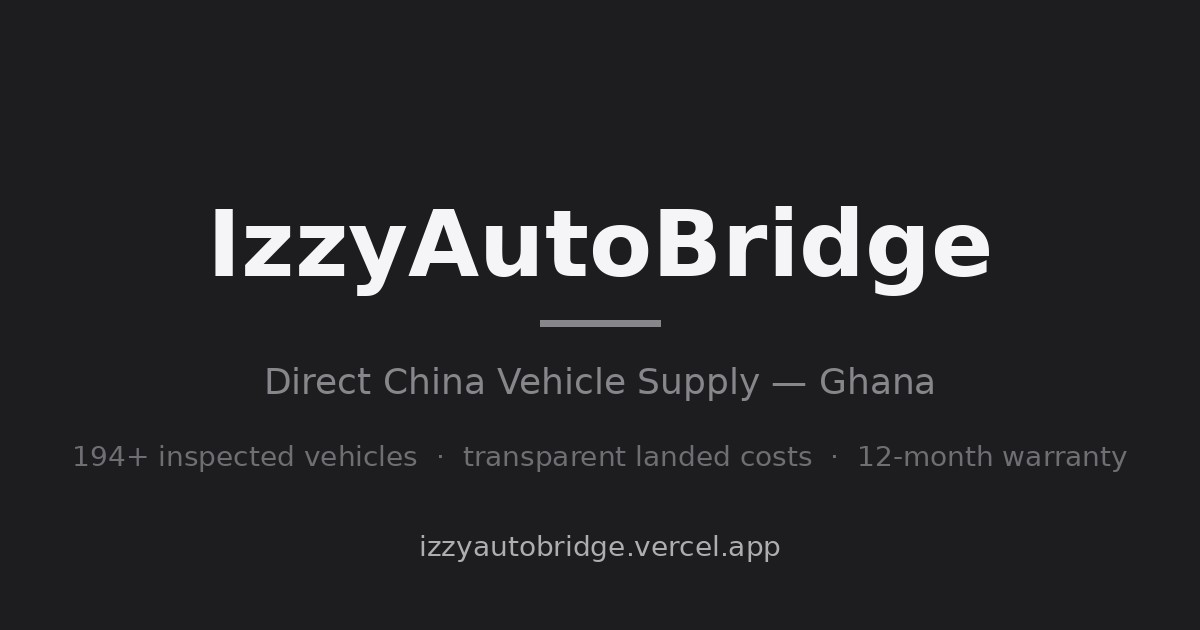
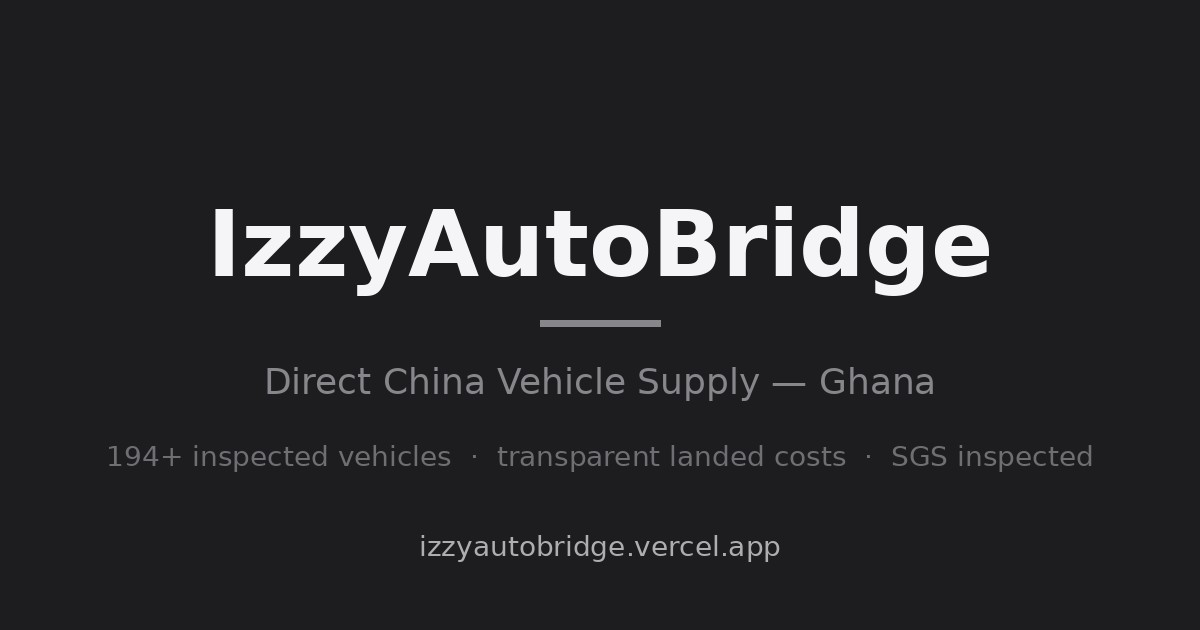
feat: remove all warranty claims — offering deferred to future
- trust FAQ: warranty items replaced with parts/repairs + importer-of-record
- process step, footer blurb, detail-page bullet, terms §7 (renumbered)
- meta/OG/Twitter descriptions, JSON-LD, prerender heads, webmanifest, og-image
- webmanifest colors also corrected to monochrome (was stale navy #1B2A4A)
- zero 'warranty' occurrences remain in source or build output

Changed region(s): [[0.0617, 0.6937, 0.9558, 0.754]]

diff --git a/src/pages/TermsPage.jsx b/src/pages/TermsPage.jsx
@@ -83,37 +83,7 @@ export default function TermsPage() {
         </p>
       </LegalSection>
 
-      <LegalSection title="7. Warranty" id="warranty">
-        <p>
-          Every vehicle comes with a <strong>12-month limited warranty</strong>, written on
-          your proforma and starting on delivery. It covers:
-        </p>
-        <ul className="list-disc pl-5 space-y-1.5">
-          <li>Engine and transmission (petrol/hybrid)</li>
-          <li>Motor and battery (electric vehicles)</li>
-        </ul>
-        <p>It does not cover:</p>
-        <ul className="list-disc pl-5 space-y-1.5">
-          <li>Consumables and wear items (brakes, tyres, wipers, fluids, filters)</li>
-          <li>Damage from accidents, misuse, neglect or unauthorised modification</li>
-          <li>Bodywork, paint, interior trim, or any cosmetic damage</li>
-        </ul>
-        <p>
-          To make a claim, message us on{' '}
-          <a
-            href={`https://wa.me/${WHATSAPP_NUMBER}`}
-            target="_blank"
-            rel="noreferrer"
-            className="font-medium underline decoration-accent-hover decoration-2 underline-offset-4 hover:text-action transition-colors"
-          >
-            WhatsApp
-          </a>{' '}
-          with your vehicle ID and a description of the fault. We diagnose, source parts and
-          coordinate repair with our partner workshops in Accra and Kumasi.
-        </p>
-      </LegalSection>
-
-      <LegalSection title="8. Import compliance" id="compliance">
+      <LegalSection title="7. Import compliance" id="compliance">
         <p>
           You are responsible for meeting Ghana's import regulations, including vehicle age
           limits and any duties or levies assessed by Customs. We provide guidance and all
@@ -122,7 +92,7 @@ export default function TermsPage() {
         </p>
       </LegalSection>
 
-      <LegalSection title="9. Limitation of liability" id="liability">
+      <LegalSection title="8. Limitation of liability" id="liability">
         <p>
           To the maximum extent permitted by law, our liability for any claim arising from a
           vehicle order is limited to the amount you paid for that vehicle. We are not
@@ -131,18 +101,18 @@ export default function TermsPage() {
         </p>
       </LegalSection>
 
-      <LegalSection title="10. Governing law" id="law">
+      <LegalSection title="9. Governing law" id="law">
         <p>These terms are governed by the laws of the Republic of Ghana.</p>
       </LegalSection>
 
-      <LegalSection title="11. Changes to these terms" id="changes">
+      <LegalSection title="10. Changes to these terms" id="changes">
         <p>
           We may update these terms. The version in effect at the time of your order — the
           one dated on your proforma — is the one that applies to that order.
         </p>
       </LegalSection>
 
-      <LegalSection title="12. Contact" id="contact">
+      <LegalSection title="11. Contact" id="contact">
         <p>
           Questions about these terms? Message us on{' '}
           <a

diff --git a/index.html b/index.html
@@ -4,7 +4,7 @@
   <meta charset="UTF-8" />
   <meta name="viewport" content="width=device-width, initial-scale=1.0" />
   <meta name="theme-color" content="#f5f5f7" />
-  <meta name="description" content="IzzyAutoBridge Ghana — Direct China vehicle imports. 194+ inspected vehicles, transparent landed costs, 12-month warranty, SGS inspection. No deposits, full payment only." />
+  <meta name="description" content="IzzyAutoBridge Ghana — Direct China vehicle imports. 194+ inspected vehicles, transparent landed costs, SGS inspection. No deposits, full payment only." />
   <meta name="keywords" content="vehicle import Ghana, China car import, IzzyAutoBridge, buy car Ghana, direct import, landed cost Ghana" />
   <meta name="author" content="IzzyAutoBridge Ghana Ltd" />
   <meta name="robots" content="index, follow" />
@@ -15,7 +15,7 @@
   <meta property="og:type" content="website" />
   <meta property="og:url" content="https://izzyautobridge.vercel.app/" />
   <meta property="og:title" content="IzzyAutoBridge Ghana — Direct China Vehicle Supply" />
-  <meta property="og:description" content="194+ inspected vehicles from China. Transparent landed costs, 12-month warranty, SGS inspection. No deposits, full payment only." />
+  <meta property="og:description" content="194+ inspected vehicles from China. Transparent landed costs, SGS inspection. No deposits, full payment only." />
   <meta property="og:image" content="https://izzyautobridge.vercel.app/og-image.jpg" />
   <meta property="og:site_name" content="IzzyAutoBridge Ghana" />
   <meta property="og:locale" content="en_GH" />
@@ -24,7 +24,7 @@
   <meta name="twitter:card" content="summary_large_image" />
   <meta name="twitter:url" content="https://izzyautobridge.vercel.app/" />
   <meta name="twitter:title" content="IzzyAutoBridge Ghana — Direct China Vehicle Supply" />
-  <meta name="twitter:description" content="194+ inspected vehicles from China. Transparent landed costs, 12-month warranty." />
+  <meta name="twitter:description" content="194+ inspected vehicles from China. Transparent landed costs." />
   <meta name="twitter:image" content="https://izzyautobridge.vercel.app/og-image.jpg" />
   
   <!-- Title -->
@@ -41,7 +41,7 @@
     "@context": "https://schema.org",
     "@type": "AutoDealer",
     "name": "IzzyAutoBridge Ghana Ltd",
-    "description": "Direct China vehicle imports to Ghana with transparent landed costs, SGS inspection, and 12-month warranty.",
+    "description": "Direct China vehicle imports to Ghana with transparent landed costs and SGS inspection.",
     "url": "https://izzyautobridge.vercel.app",
     "logo": "https://izzyautobridge.vercel.app/favicon.svg",
     "telephone": "+233-53-622-5804",

diff --git a/scripts/prerender-routes.js b/scripts/prerender-routes.js
@@ -21,7 +21,7 @@ const STATIC_ROUTES = [
     out: 'inventory/index.html',
     title: 'Browse Inventory — IzzyAutoBridge Ghana',
     description:
-      'Browse 194+ inspected vehicles imported from China to Ghana. BYD, Toyota, Honda and more — transparent landed costs, SGS inspection, 12-month warranty.',
+      'Browse 194+ inspected vehicles imported from China to Ghana. BYD, Toyota, Honda and more — transparent landed costs and SGS inspection.',
     canonical: `${BASE}/inventory`,
   },
   {
@@ -35,7 +35,7 @@ const STATIC_ROUTES = [
     out: 'terms/index.html',
     title: 'Terms of Service — IzzyAutoBridge Ghana',
     description:
-      'Terms governing IzzyAutoBridge vehicle orders: full-payment policy, 60-day shipping estimate, 12-month warranty coverage, clearance options and Ghana consumer rights.',
+      'Terms governing IzzyAutoBridge vehicle orders: full-payment policy, 60-day shipping estimate, clearance options and Ghana consumer rights.',
     canonical: `${BASE}/terms`,
   },
 ];
@@ -49,7 +49,7 @@ function buildVehicleRoutes() {
     const specs = v.Key_Specs ? ` Key specs: ${v.Key_Specs}.` : '';
     const description = `${v.Brand} ${v.Model} ${v.Year}${variant} available now in Ghana. GH₵${Number(
       v.Price_GHS
-    ).toLocaleString()} · SGS inspected · 12-month warranty · free shipping to Tema.${specs}`;
+    ).toLocaleString()} · SGS inspected · free shipping to Tema.${specs}`;
     return {
       out: `vehicle/${v.ID}/index.html`,
       title,

diff --git a/src/components/Footer.jsx b/src/components/Footer.jsx
@@ -8,7 +8,7 @@ const footerLinks = {
   explore: [
     { label: 'Browse Inventory', to: '/inventory' },
     { label: 'Our Process', to: '/#process' },
-    { label: 'Trust & Warranty', to: '/#trust' },
+    { label: 'Why Us', to: '/#trust' },
     { label: 'Request a Vehicle', to: '/#concierge' },
   ],
   support: [
@@ -17,7 +17,6 @@ const footerLinks = {
   legal: [
     { label: 'Privacy Policy', to: '/privacy' },
     { label: 'Terms of Service', to: '/terms' },
-    { label: 'Warranty Terms', to: '/terms#warranty' },
   ],
 };
 
@@ -41,7 +40,7 @@ export default function Footer() {
               <span className="font-display font-bold text-xl">IzzyAutoBridge</span>
             </div>
             <p className="text-onsecondary-muted mb-6 max-w-xs">
-              Direct China vehicle supply to Ghana. Transparent landed costs. 60-day delivery. 12-month warranty.
+              Direct China vehicle supply to Ghana. Transparent landed costs. 60-day delivery.
             </p>
             <div className="flex gap-4">
               {socialLinks.map((social) => (

diff --git a/src/components/TrustSection.jsx b/src/components/TrustSection.jsx
@@ -16,13 +16,13 @@ const trustItems = [
   },
   {
     num: '03',
-    question: 'What if it breaks in month four?',
-    answer: '12-month limited warranty on engine & transmission (EV: motor/battery). Written on proforma. WhatsApp us — we diagnose, source parts, coordinate repair with partner workshops in Accra/Kumasi.',
+    question: 'What about parts and repairs?',
+    answer: 'WhatsApp us — we source parts and coordinate with partner workshops in Accra and Kumasi. We stay reachable after delivery.',
     icon: Wrench,
   },
   {
     num: '04',
-    question: 'Whose name is on the warranty?',
+    question: 'Who is the importer of record?',
     answer: 'Ours. IzzyAutoBridge Ghana Ltd is the importer of record. We don\'t disappear at port — we\'re based in Accra, licensed by DVLA (Class C).',
     icon: Shield,
   },

diff --git a/src/pages/VehicleDetailPage.jsx b/src/pages/VehicleDetailPage.jsx
@@ -89,7 +89,7 @@ export default function VehicleDetailPage() {
             </div>
             <div className="flex items-center gap-2.5 text-sm text-muted">
               <ShieldCheck size={16} className="text-main shrink-0" aria-hidden="true" />
-              SGS inspected · 12-month warranty
+              SGS inspected before loading
             </div>
           </div>
         </div>

diff --git a/src/components/ProcessSection.jsx b/src/components/ProcessSection.jsx
@@ -24,7 +24,7 @@ const steps = [
     num: '4',
     icon: Key,
     title: 'Clear & Drive',
-    desc: 'Your agent clears (we supply docs) or we clear for GH₵4,000. DVLA registration, delivery to your door. 12-month warranty starts.',
+    desc: 'Your agent clears (we supply docs) or we clear for GH₵4,000. DVLA registration, delivery to your door.',
   },
 ];
 
